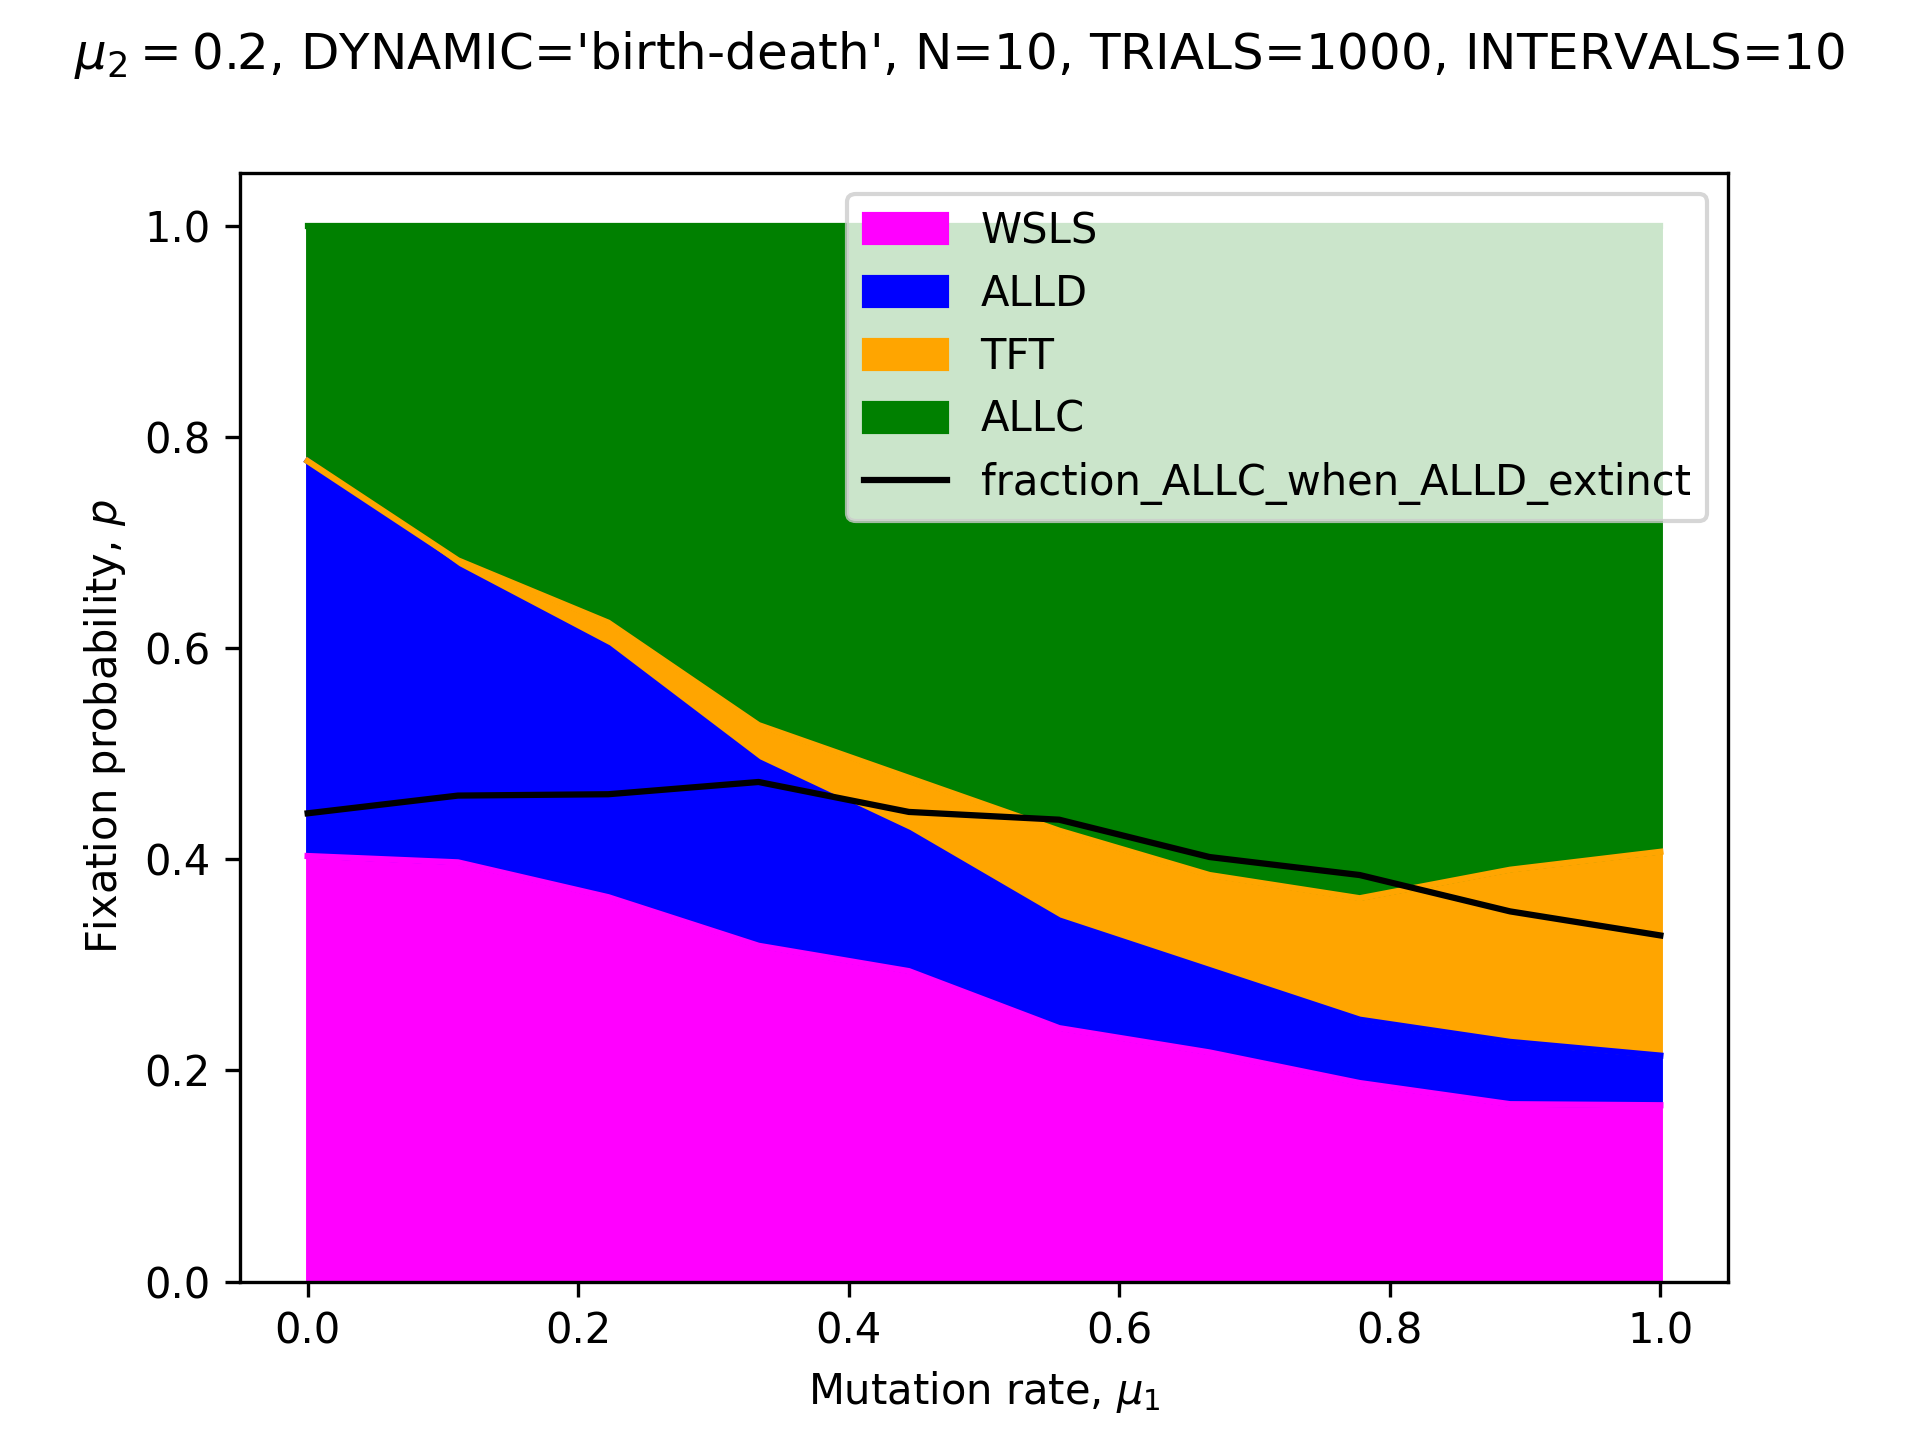
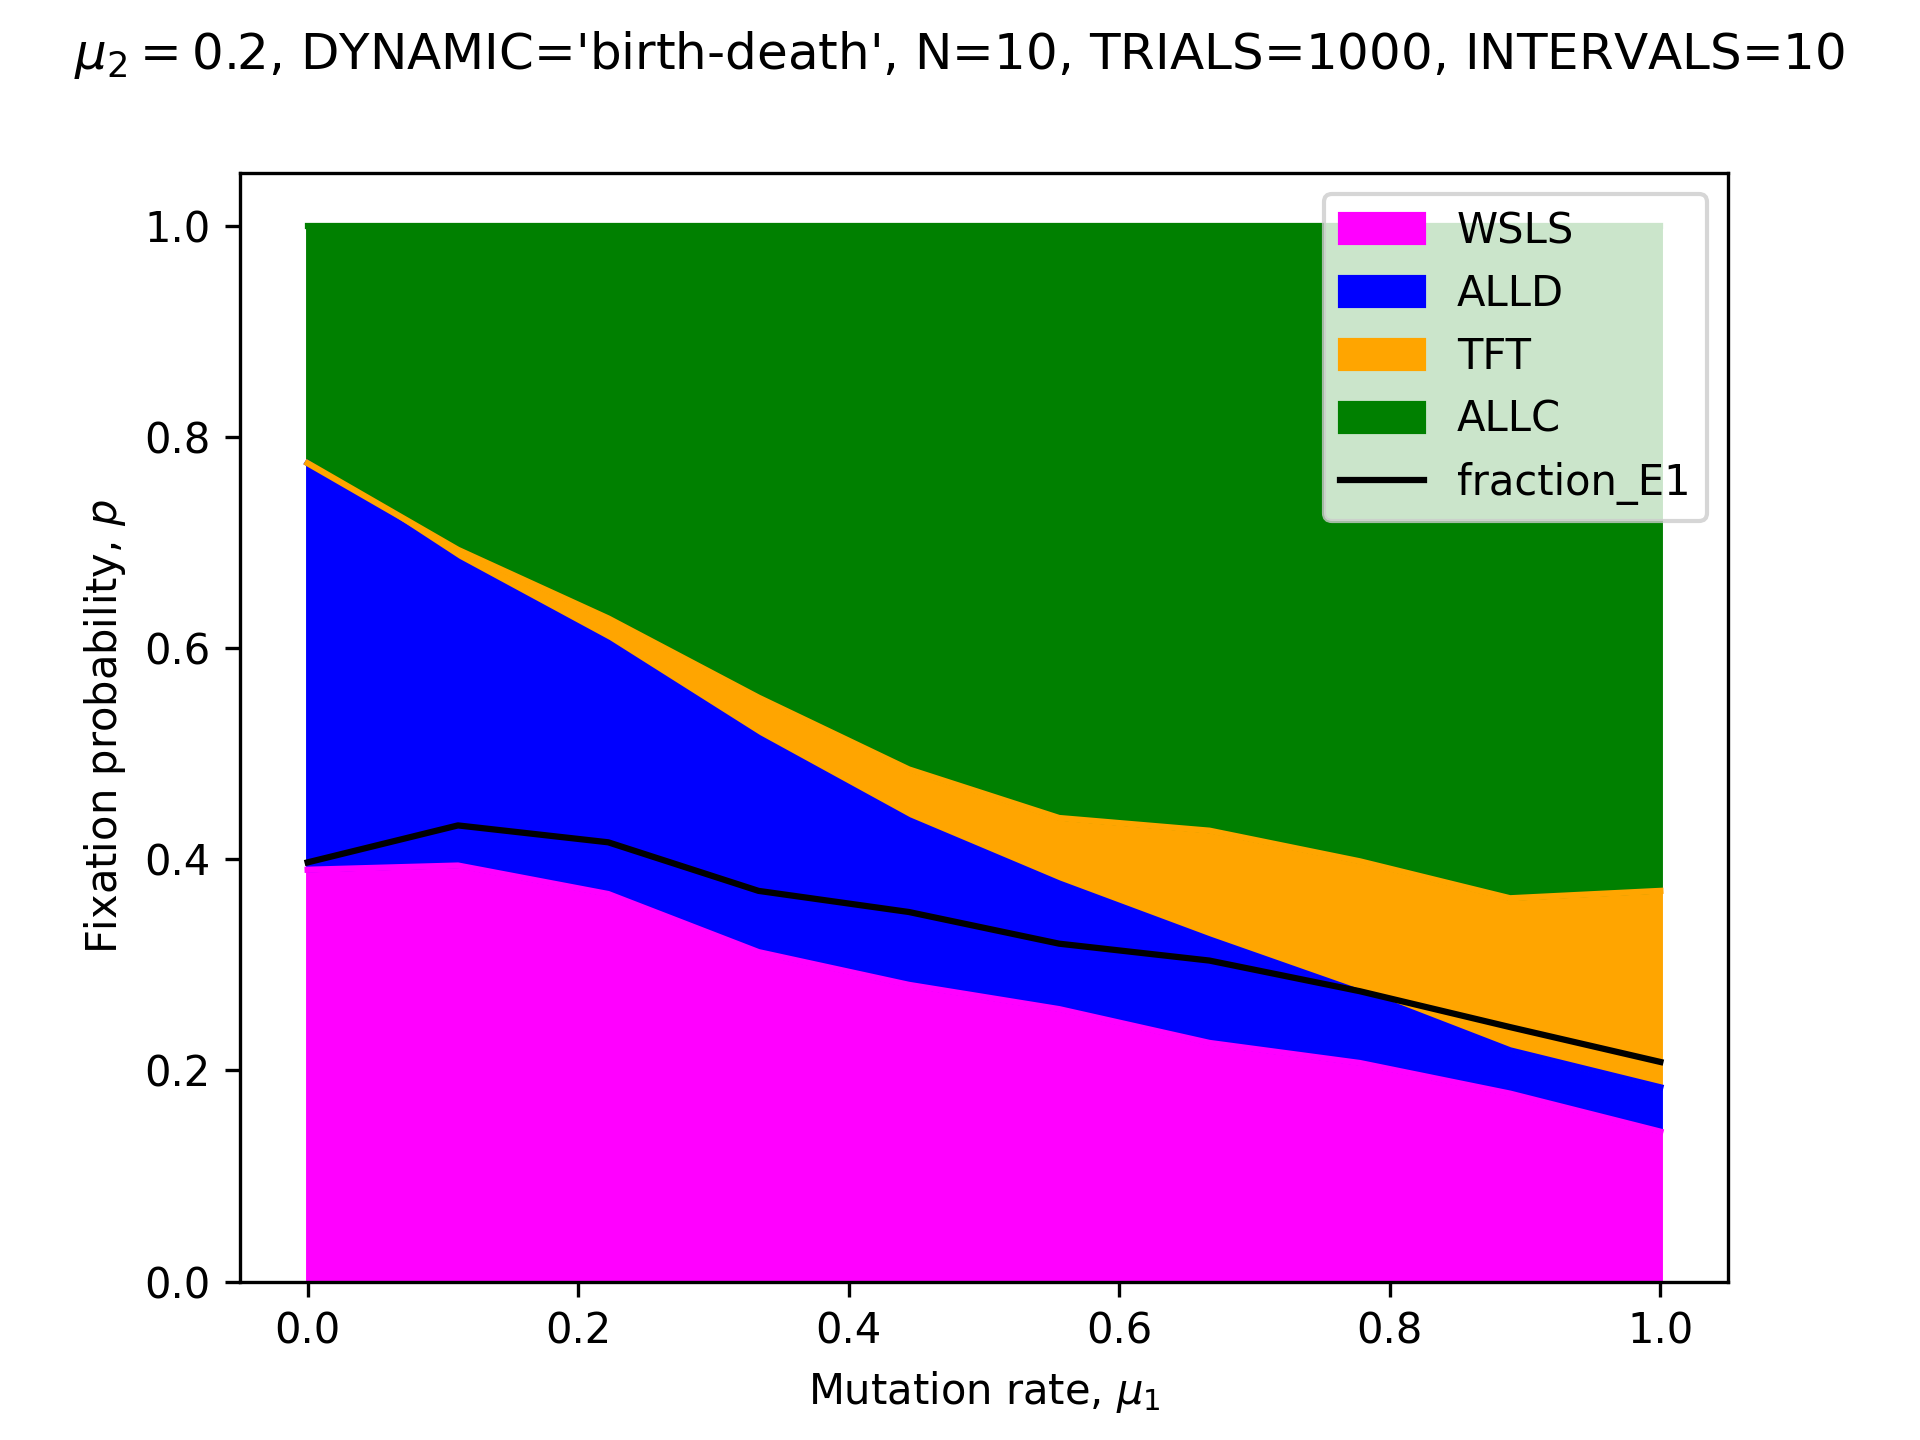
add fraction_E1

diff --git a/martins-dream.py b/martins-dream.py
@@ -289,19 +289,24 @@ def simulate(N: int, TRIALS: int, dynamics, mu1: float, mu2: float, back_mu: flo
   fixated = defaultdict(list)
   fixated_ALLC_given_ALLD_extinct = []
   fractions_ALLC_when_ALLD_extinction = []
+  E1s = []
   for trial in range(TRIALS):
     nALLC = N-1
     nTFT = 0
     nWSLS = 0
     nALLD = 1
     tracked_ALLD_extinction = False
+    tracked_E1 = False
     while all(nX < N for nX in (nALLC, nTFT, nWSLS, nALLD)):
       nALLCp, nTFTp, nWSLSp, nALLDp = dynamics(N, nALLC, nTFT, nWSLS, nALLD, M, mu1=mu1, mu2=mu2, back_mu=back_mu)
       nALLC, nTFT, nWSLS, nALLD = (nALLCp, nTFTp, nWSLSp, nALLDp)
+      if nALLD == 0 and nWSLS > 0:
+        tracked_E1 = True
       if nALLD == 0 and not tracked_ALLD_extinction:
         fractions_ALLC_when_ALLD_extinction.append(nALLC / N)
         tracked_ALLD_extinction = True
 
+    E1s.append(int(tracked_E1))
     fixated_ALLD.append(nALLD == N)
     for strategy, nStrategy in zip(STRATEGIES, (nALLC, nTFT, nWSLS, nALLD)):
       fixated[strategy].append(nStrategy == N)
@@ -315,8 +320,9 @@ def simulate(N: int, TRIALS: int, dynamics, mu1: float, mu2: float, back_mu: flo
     fp[strategy] = np.mean(fixated[strategy])
   fp_ALLC_given_ALLD_extinct = np.mean(fixated_ALLC_given_ALLD_extinct)
   fraction_ALLC_when_ALLD_extinction = np.mean(fractions_ALLC_when_ALLD_extinction)
+  fraction_E1 = np.mean(E1s)
   logger.info(('end', mu1, mu2, back_mu))
-  return (N, mu1, mu2, back_mu, *(fp[strategy] for strategy in STRATEGIES), fp_ALLC_given_ALLD_extinct, fraction_ALLC_when_ALLD_extinction)
+  return (N, mu1, mu2, back_mu, *(fp[strategy] for strategy in STRATEGIES), fp_ALLC_given_ALLD_extinct, fraction_ALLC_when_ALLD_extinction, fraction_E1)
 
 
 DYNAMICS = {
@@ -370,7 +376,7 @@ def collect_data():
     for datum in itertools.starmap(functools.partial(simulate, N, TRIALS, DYNAMICS[DYNAMIC]), mutations):
       data.append(datum)
 
-  return pd.DataFrame(data, columns=['N', 'mu1', 'mu2', 'back_mu', 'fp_ALLC', 'fp_TFT', 'fp_WSLS', 'fp_ALLD', 'fp_ALLC_given_ALLD_extinct', 'fraction_ALLC_when_ALLD_extinct'])
+  return pd.DataFrame(data, columns=['N', 'mu1', 'mu2', 'back_mu', 'fp_ALLC', 'fp_TFT', 'fp_WSLS', 'fp_ALLD', 'fp_ALLC_given_ALLD_extinct', 'fraction_ALLC_when_ALLD_extinct', 'fraction_E1'])
 
 def stack_plot(dff: pd.DataFrame, **kwargs):
   # df = df[['fp_ALLD', 'fp_ALLC_given_ALLD_extinct', 'mu']]
@@ -380,7 +386,8 @@ def stack_plot(dff: pd.DataFrame, **kwargs):
   df = df[['mu1', 'fp_WSLS', 'fp_ALLD', 'fp_TFT', 'fp_ALLC']]
   df = df.rename(columns={'fp_ALLD': 'ALLD', 'fp_TFT': 'TFT', 'fp_ALLC': 'ALLC', 'fp_WSLS': 'WSLS'})
   ax = df.set_index('mu1').plot(kind='area', color=['magenta', 'b', 'orange', 'g'])
-  dff[['mu1', 'fraction_ALLC_when_ALLD_extinct']].set_index('mu1').plot.line(ax=ax, c='black')
+  # dff[['mu1', 'fraction_ALLC_when_ALLD_extinct']].set_index('mu1').plot.line(ax=ax, c='black')
+  dff[['mu1', 'fraction_E1']].set_index('mu1').plot.line(ax=ax, c='black')
   ax.set_ylabel(r'Fixation probability, $p$')
   ax.set_xlabel(r'Mutation rate, $\mu_1$')
   plt.legend(loc='upper right')
